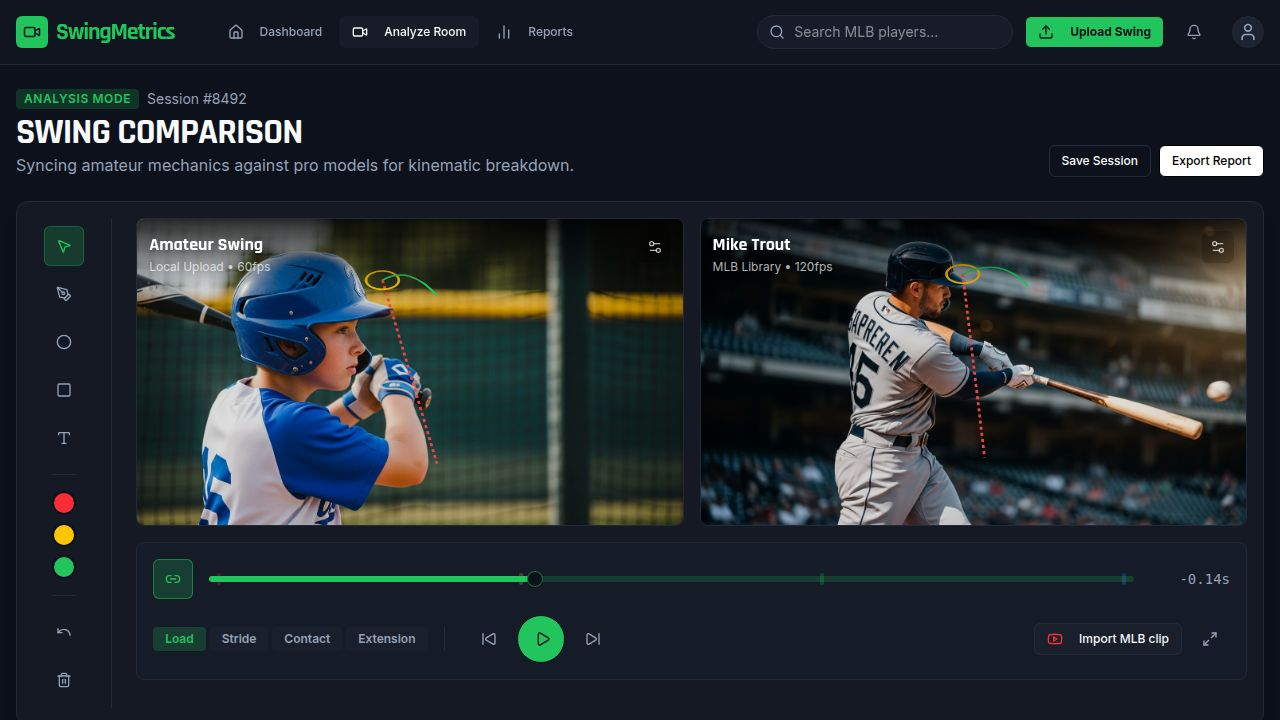
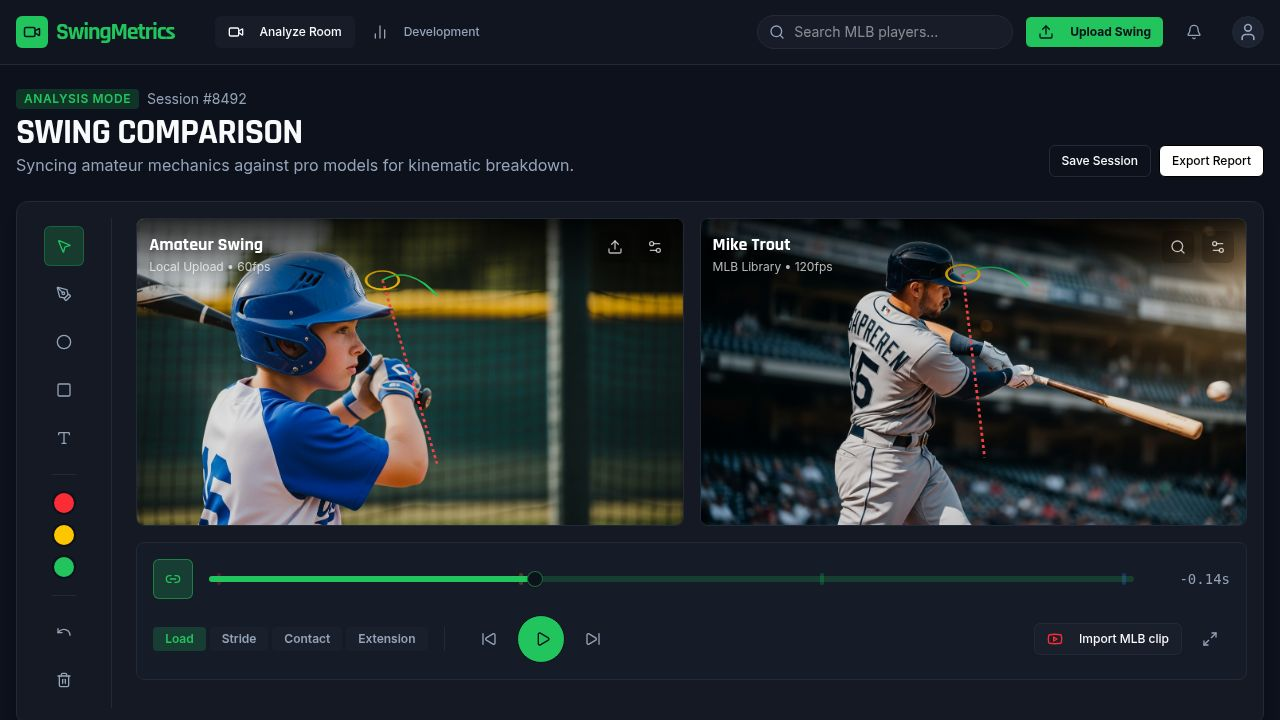
Add a dedicated development tab for training and drills
Introduces a new 'Development' route and component, enabling users to access swing training plans. Includes navigation updates, new image assets, and UI elements for drills and pro model examples.

Replit-Commit-Author: Agent
Replit-Commit-Session-Id: 20586934-8ac6-4ca6-bc98-c54c934e4f05
Replit-Commit-Checkpoint-Type: full_checkpoint
Replit-Commit-Event-Id: db0cedfb-e53d-488d-b2b1-191135058bf0
Replit-Commit-Screenshot-Url: https://storage.googleapis.com/screenshot-production-us-central1/65723a6f-c7b3-49c1-8121-7618cc83d7ae/20586934-8ac6-4ca6-bc98-c54c934e4f05/2dLx7Tx
Replit-Helium-Checkpoint-Created: true

diff --git a/client/src/pages/Development.tsx b/client/src/pages/Development.tsx
@@ -1,0 +1,185 @@
+import Layout from "@/components/Layout";
+import { Button } from "@/components/ui/button";
+import { PlayCircle, Target, ArrowRight, CheckCircle2, Dumbbell } from "lucide-react";
+import mechanicHandsImg from "@/assets/images/mechanic-hands.png";
+import mechanicLowerHalfImg from "@/assets/images/mechanic-lower-half.png";
+import drillTeeImg from "@/assets/images/drill-tee.png";
+
+export default function Development() {
+  return (
+    <Layout>
+      {/* Header Section */}
+      <div className="flex flex-col md:flex-row md:items-end justify-between gap-4 mb-2">
+        <div>
+          <div className="flex items-center gap-2 mb-1">
+            <span className="px-2 py-0.5 rounded text-xs font-semibold bg-blue-500/20 text-blue-400 uppercase tracking-wider">Training Plan</span>
+            <span className="text-sm text-muted-foreground">Based on AI Analysis</span>
+          </div>
+          <h1 className="text-3xl md:text-4xl font-bold font-display uppercase">Development Blueprint</h1>
+          <p className="text-muted-foreground">Mastering the swing in isolated chunks. Based on your comps: Trout, Bregman, Altuve.</p>
+        </div>
+        <div className="flex items-center gap-2">
+          <Button variant="outline" size="sm" className="border-border">Print Workout</Button>
+          <Button size="sm" className="bg-primary text-primary-foreground hover:bg-primary/90">Start Session</Button>
+        </div>
+      </div>
+
+      {/* Progress Overview */}
+      <div className="grid grid-cols-1 md:grid-cols-4 gap-4">
+        <PhaseCard title="Phase 1: Load & Stride" status="in-progress" progress={65} />
+        <PhaseCard title="Phase 2: Launch Position" status="locked" progress={0} />
+        <PhaseCard title="Phase 3: Connection" status="locked" progress={0} />
+        <PhaseCard title="Phase 4: Extension" status="locked" progress={0} />
+      </div>
+
+      {/* Current Focus Area */}
+      <div className="mt-8 space-y-6">
+        <div className="flex items-center justify-between border-b border-border pb-2">
+          <h2 className="text-2xl font-bold font-display flex items-center gap-2">
+            <Target className="text-primary w-6 h-6" />
+            Current Focus: Lower Half Engagement
+          </h2>
+          <Button variant="ghost" className="text-primary hover:text-primary/80">View Full Path <ArrowRight className="w-4 h-4 ml-1" /></Button>
+        </div>
+
+        <div className="grid grid-cols-1 lg:grid-cols-2 gap-8">
+          
+          {/* Theory / Pro Models */}
+          <div className="space-y-4">
+            <h3 className="font-display text-xl uppercase tracking-wider text-muted-foreground mb-4">1. The Standard (Pro Models)</h3>
+            
+            <div className="bg-card border border-border rounded-xl p-4 space-y-4 hover:border-primary/30 transition-colors">
+              <div className="relative rounded-lg overflow-hidden aspect-video bg-black group cursor-pointer">
+                <img src={mechanicLowerHalfImg} alt="Lower half mechanics" className="w-full h-full object-cover opacity-70 group-hover:opacity-100 transition-opacity" />
+                <div className="absolute inset-0 flex items-center justify-center">
+                  <div className="w-12 h-12 rounded-full bg-primary/90 text-primary-foreground flex items-center justify-center shadow-lg group-hover:scale-110 transition-transform">
+                    <PlayCircle className="w-6 h-6 ml-0.5" />
+                  </div>
+                </div>
+                <div className="absolute bottom-3 left-3 bg-black/60 backdrop-blur-sm px-2 py-1 rounded text-xs font-mono border border-white/10">
+                  0:15 / Bregman Hip Hinge
+                </div>
+              </div>
+              <div>
+                <h4 className="font-bold text-lg">The "Gather" and Hip Hinge</h4>
+                <p className="text-sm text-muted-foreground mt-1 leading-relaxed">
+                  Notice how Bregman and Trout sit into their back glute (hinge) rather than just swaying backward. This creates tension in the rear leg that can be fired efficiently during the stride.
+                </p>
+                <div className="flex gap-2 mt-3">
+                  <Badge>Coiling</Badge>
+                  <Badge>Tension</Badge>
+                  <Badge>Ground Force</Badge>
+                </div>
+              </div>
+            </div>
+
+             <div className="bg-card border border-border rounded-xl p-4 space-y-4 hover:border-primary/30 transition-colors">
+              <div className="relative rounded-lg overflow-hidden aspect-video bg-black group cursor-pointer">
+                <img src={mechanicHandsImg} alt="Hand path" className="w-full h-full object-cover opacity-70 group-hover:opacity-100 transition-opacity" />
+                <div className="absolute inset-0 flex items-center justify-center">
+                  <div className="w-12 h-12 rounded-full bg-primary/90 text-primary-foreground flex items-center justify-center shadow-lg group-hover:scale-110 transition-transform">
+                    <PlayCircle className="w-6 h-6 ml-0.5" />
+                  </div>
+                </div>
+              </div>
+              <div>
+                <h4 className="font-bold text-lg">Separation (Hands vs Hips)</h4>
+                <p className="text-sm text-muted-foreground mt-1 leading-relaxed">
+                  As the front foot strikes the ground, the hips begin to open while the hands stay back. This creates the "rubber band effect" needed for high bat speed.
+                </p>
+              </div>
+            </div>
+
+          </div>
+
+          {/* Drills / Execution */}
+          <div className="space-y-4">
+            <h3 className="font-display text-xl uppercase tracking-wider text-muted-foreground mb-4">2. Execution (Drills)</h3>
+            
+            <div className="bg-secondary/30 border border-border rounded-xl p-0 overflow-hidden flex flex-col">
+              <div className="p-4 border-b border-border flex justify-between items-center bg-card">
+                <div className="flex items-center gap-2">
+                  <Dumbbell className="w-5 h-5 text-primary" />
+                  <h4 className="font-bold text-lg">Step-Back Tee Drill</h4>
+                </div>
+                <span className="text-xs bg-primary/20 text-primary px-2 py-1 rounded font-bold">15 Reps</span>
+              </div>
+              
+              <div className="p-4 flex flex-col sm:flex-row gap-4">
+                <div className="w-full sm:w-1/3 aspect-square rounded-lg overflow-hidden bg-black relative shrink-0">
+                  <img src={drillTeeImg} alt="Tee Drill" className="w-full h-full object-cover opacity-80" />
+                  <div className="absolute inset-0 flex items-center justify-center">
+                     <PlayCircle className="w-8 h-8 text-white opacity-80" />
+                  </div>
+                </div>
+                <div className="flex-1 flex flex-col justify-between">
+                  <ul className="space-y-2 text-sm text-muted-foreground">
+                    <li className="flex items-start gap-2">
+                      <CheckCircle2 className="w-4 h-4 text-primary shrink-0 mt-0.5" />
+                      Start with feet together, slightly wider than shoulder width.
+                    </li>
+                    <li className="flex items-start gap-2">
+                      <CheckCircle2 className="w-4 h-4 text-primary shrink-0 mt-0.5" />
+                      Step your back foot backward, feeling the weight load into the inside of your back thigh.
+                    </li>
+                    <li className="flex items-start gap-2">
+                      <CheckCircle2 className="w-4 h-4 text-primary shrink-0 mt-0.5" />
+                      Without pausing, take your normal stride forward and swing.
+                    </li>
+                  </ul>
+                  <div className="mt-4 flex gap-2">
+                    <Button variant="outline" size="sm" className="w-full">Log Set</Button>
+                    <Button variant="secondary" size="sm" className="w-full">Upload Attempt</Button>
+                  </div>
+                </div>
+              </div>
+            </div>
+
+            <div className="bg-secondary/30 border border-border rounded-xl p-0 overflow-hidden flex flex-col">
+              <div className="p-4 border-b border-border flex justify-between items-center bg-card">
+                <div className="flex items-center gap-2">
+                  <Dumbbell className="w-5 h-5 text-primary" />
+                  <h4 className="font-bold text-lg">Med Ball Rotational Throws</h4>
+                </div>
+                <span className="text-xs bg-primary/20 text-primary px-2 py-1 rounded font-bold">3x8 Reps</span>
+              </div>
+              <div className="p-4 flex flex-col justify-between">
+                <p className="text-sm text-muted-foreground mb-4">
+                  Using a 4-6lb medicine ball, mimic your load and stride, then throw the ball explosively into a wall. Focus purely on sequencing your hips before your shoulders.
+                </p>
+                <Button variant="outline" size="sm" className="w-full">Log Set</Button>
+              </div>
+            </div>
+
+          </div>
+
+        </div>
+      </div>
+    </Layout>
+  );
+}
+
+function PhaseCard({ title, status, progress }: any) {
+  const isLocked = status === 'locked';
+  return (
+    <div className={`border rounded-xl p-4 ${isLocked ? 'bg-secondary/10 border-border/50 opacity-60' : 'bg-card border-primary/50 shadow-[0_0_15px_rgba(20,184,102,0.1)]'}`}>
+      <div className="text-xs uppercase tracking-wider font-bold mb-2 flex justify-between items-center">
+        <span className={isLocked ? 'text-muted-foreground' : 'text-primary'}>{title}</span>
+      </div>
+      <div className="h-1.5 w-full bg-secondary rounded-full overflow-hidden mb-2">
+        <div className="h-full bg-primary" style={{ width: `${progress}%` }}></div>
+      </div>
+      <div className="text-right text-[10px] font-mono text-muted-foreground">
+        {isLocked ? 'LOCKED' : `${progress}% MASTERY`}
+      </div>
+    </div>
+  );
+}
+
+function Badge({ children }: { children: React.ReactNode }) {
+  return (
+    <span className="px-2 py-0.5 rounded text-[10px] font-semibold bg-secondary text-muted-foreground uppercase tracking-wider">
+      {children}
+    </span>
+  );
+}

diff --git a/client/src/pages/Home.tsx b/client/src/pages/Home.tsx
@@ -1,93 +1,32 @@
-import { Home as HomeIcon, Video, BarChart2, Search, Bell, Menu, User, Upload } from "lucide-react";
+import Layout from "@/components/Layout";
 import { Button } from "@/components/ui/button";
 import VideoComparison from "@/components/VideoComparison";
 import DataDashboard from "@/components/DataDashboard";
-import { VideoLibraryModal } from "@/components/VideoLibraryModal";
 
 export default function Home() {
   return (
-    <div className="min-h-screen bg-background text-foreground flex flex-col">
-      {/* Navigation */}
-      <header className="border-b border-border bg-card/50 backdrop-blur-sm sticky top-0 z-50">
-        <div className="container mx-auto px-4 h-16 flex items-center justify-between">
-          <div className="flex items-center gap-6">
-            <div className="flex items-center gap-2 text-primary font-display font-bold text-2xl tracking-tighter">
-              <div className="w-8 h-8 rounded-md bg-primary flex items-center justify-center text-primary-foreground">
-                <Video size={18} />
-              </div>
-              SwingMetrics
-            </div>
-            
-            <nav className="hidden md:flex items-center gap-1 ml-4">
-              <Button variant="ghost" size="sm" className="text-muted-foreground hover:text-foreground font-medium">
-                <HomeIcon className="w-4 h-4 mr-2" />
-                Dashboard
-              </Button>
-              <Button variant="ghost" size="sm" className="bg-secondary/50 text-foreground font-medium">
-                <Video className="w-4 h-4 mr-2" />
-                Analyze Room
-              </Button>
-              <Button variant="ghost" size="sm" className="text-muted-foreground hover:text-foreground font-medium">
-                <BarChart2 className="w-4 h-4 mr-2" />
-                Reports
-              </Button>
-            </nav>
+    <Layout>
+      {/* Header Section */}
+      <div className="flex flex-col md:flex-row md:items-end justify-between gap-4">
+        <div>
+          <div className="flex items-center gap-2 mb-1">
+            <span className="px-2 py-0.5 rounded text-xs font-semibold bg-primary/20 text-primary uppercase tracking-wider">Analysis Mode</span>
+            <span className="text-sm text-muted-foreground">Session #8492</span>
           </div>
-
-          <div className="flex items-center gap-3">
-            <div className="relative hidden md:block">
-              <Search className="w-4 h-4 absolute left-3 top-1/2 -translate-y-1/2 text-muted-foreground" />
-              <input 
-                type="text" 
-                placeholder="Search MLB players..." 
-                className="bg-secondary/50 border border-border rounded-full pl-9 pr-4 py-1.5 text-sm focus:outline-none focus:border-primary transition-colors w-64"
-              />
-            </div>
-            <VideoLibraryModal trigger={
-              <Button size="sm" className="bg-primary text-primary-foreground hover:bg-primary/90 font-bold hidden sm:flex">
-                <Upload className="w-4 h-4 mr-2" />
-                Upload Swing
-              </Button>
-            } />
-            <Button variant="ghost" size="icon" className="text-muted-foreground">
-              <Bell className="w-5 h-5" />
-            </Button>
-            <Button variant="ghost" size="icon" className="md:hidden">
-              <Menu className="w-5 h-5" />
-            </Button>
-            <div className="w-8 h-8 rounded-full bg-secondary border border-border flex items-center justify-center overflow-hidden ml-2 cursor-pointer">
-              <User className="w-5 h-5 text-muted-foreground" />
-            </div>
-          </div>
+          <h1 className="text-3xl md:text-4xl font-bold font-display uppercase">Swing Comparison</h1>
+          <p className="text-muted-foreground">Syncing amateur mechanics against pro models for kinematic breakdown.</p>
         </div>
-      </header>
-
-      {/* Main Content */}
-      <main className="flex-1 container mx-auto px-4 py-6 flex flex-col gap-6">
-        
-        {/* Header Section */}
-        <div className="flex flex-col md:flex-row md:items-end justify-between gap-4">
-          <div>
-            <div className="flex items-center gap-2 mb-1">
-              <span className="px-2 py-0.5 rounded text-xs font-semibold bg-primary/20 text-primary uppercase tracking-wider">Analysis Mode</span>
-              <span className="text-sm text-muted-foreground">Session #8492</span>
-            </div>
-            <h1 className="text-3xl md:text-4xl font-bold font-display uppercase">Swing Comparison</h1>
-            <p className="text-muted-foreground">Syncing amateur mechanics against pro models for kinematic breakdown.</p>
-          </div>
-          <div className="flex items-center gap-2">
-            <Button variant="outline" size="sm" className="border-border">Save Session</Button>
-            <Button size="sm" className="bg-white text-black hover:bg-white/90">Export Report</Button>
-          </div>
+        <div className="flex items-center gap-2">
+          <Button variant="outline" size="sm" className="border-border">Save Session</Button>
+          <Button size="sm" className="bg-white text-black hover:bg-white/90">Export Report</Button>
         </div>
+      </div>
 
-        {/* Video Comparison Grid */}
-        <VideoComparison />
+      {/* Video Comparison Grid */}
+      <VideoComparison />
 
-        {/* Data Analytics Dashboard */}
-        <DataDashboard />
-
-      </main>
-    </div>
+      {/* Data Analytics Dashboard */}
+      <DataDashboard />
+    </Layout>
   );
 }

diff --git a/client/src/components/Layout.tsx b/client/src/components/Layout.tsx
@@ -1,0 +1,72 @@
+import { Home as HomeIcon, Video, BarChart2, Search, Bell, Menu, User, Upload } from "lucide-react";
+import { Button } from "@/components/ui/button";
+import { VideoLibraryModal } from "@/components/VideoLibraryModal";
+import { Link, useLocation } from "wouter";
+
+export default function Layout({ children }: { children: React.ReactNode }) {
+  const [location] = useLocation();
+
+  return (
+    <div className="min-h-screen bg-background text-foreground flex flex-col">
+      {/* Navigation */}
+      <header className="border-b border-border bg-card/50 backdrop-blur-sm sticky top-0 z-50">
+        <div className="container mx-auto px-4 h-16 flex items-center justify-between">
+          <div className="flex items-center gap-6">
+            <div className="flex items-center gap-2 text-primary font-display font-bold text-2xl tracking-tighter">
+              <div className="w-8 h-8 rounded-md bg-primary flex items-center justify-center text-primary-foreground">
+                <Video size={18} />
+              </div>
+              SwingMetrics
+            </div>
+            
+            <nav className="hidden md:flex items-center gap-1 ml-4">
+              <Link href="/">
+                <Button variant="ghost" size="sm" className={`font-medium ${location === '/' ? 'bg-secondary/50 text-foreground' : 'text-muted-foreground hover:text-foreground'}`}>
+                  <Video className="w-4 h-4 mr-2" />
+                  Analyze Room
+                </Button>
+              </Link>
+              <Link href="/development">
+                <Button variant="ghost" size="sm" className={`font-medium ${location === '/development' ? 'bg-secondary/50 text-foreground' : 'text-muted-foreground hover:text-foreground'}`}>
+                  <BarChart2 className="w-4 h-4 mr-2" />
+                  Development
+                </Button>
+              </Link>
+            </nav>
+          </div>
+
+          <div className="flex items-center gap-3">
+            <div className="relative hidden md:block">
+              <Search className="w-4 h-4 absolute left-3 top-1/2 -translate-y-1/2 text-muted-foreground" />
+              <input 
+                type="text" 
+                placeholder="Search MLB players..." 
+                className="bg-secondary/50 border border-border rounded-full pl-9 pr-4 py-1.5 text-sm focus:outline-none focus:border-primary transition-colors w-64"
+              />
+            </div>
+            <VideoLibraryModal trigger={
+              <Button size="sm" className="bg-primary text-primary-foreground hover:bg-primary/90 font-bold hidden sm:flex">
+                <Upload className="w-4 h-4 mr-2" />
+                Upload Swing
+              </Button>
+            } />
+            <Button variant="ghost" size="icon" className="text-muted-foreground">
+              <Bell className="w-5 h-5" />
+            </Button>
+            <Button variant="ghost" size="icon" className="md:hidden">
+              <Menu className="w-5 h-5" />
+            </Button>
+            <div className="w-8 h-8 rounded-full bg-secondary border border-border flex items-center justify-center overflow-hidden ml-2 cursor-pointer">
+              <User className="w-5 h-5 text-muted-foreground" />
+            </div>
+          </div>
+        </div>
+      </header>
+
+      {/* Main Content */}
+      <main className="flex-1 container mx-auto px-4 py-6 flex flex-col gap-6">
+        {children}
+      </main>
+    </div>
+  );
+}

diff --git a/client/src/App.tsx b/client/src/App.tsx
@@ -5,11 +5,13 @@ import { Toaster } from "@/components/ui/toaster";
 import { TooltipProvider } from "@/components/ui/tooltip";
 import NotFound from "@/pages/not-found";
 import Home from "@/pages/Home";
+import Development from "@/pages/Development";
 
 function Router() {
   return (
     <Switch>
       <Route path="/" component={Home}/>
+      <Route path="/development" component={Development}/>
       <Route component={NotFound} />
     </Switch>
   );
